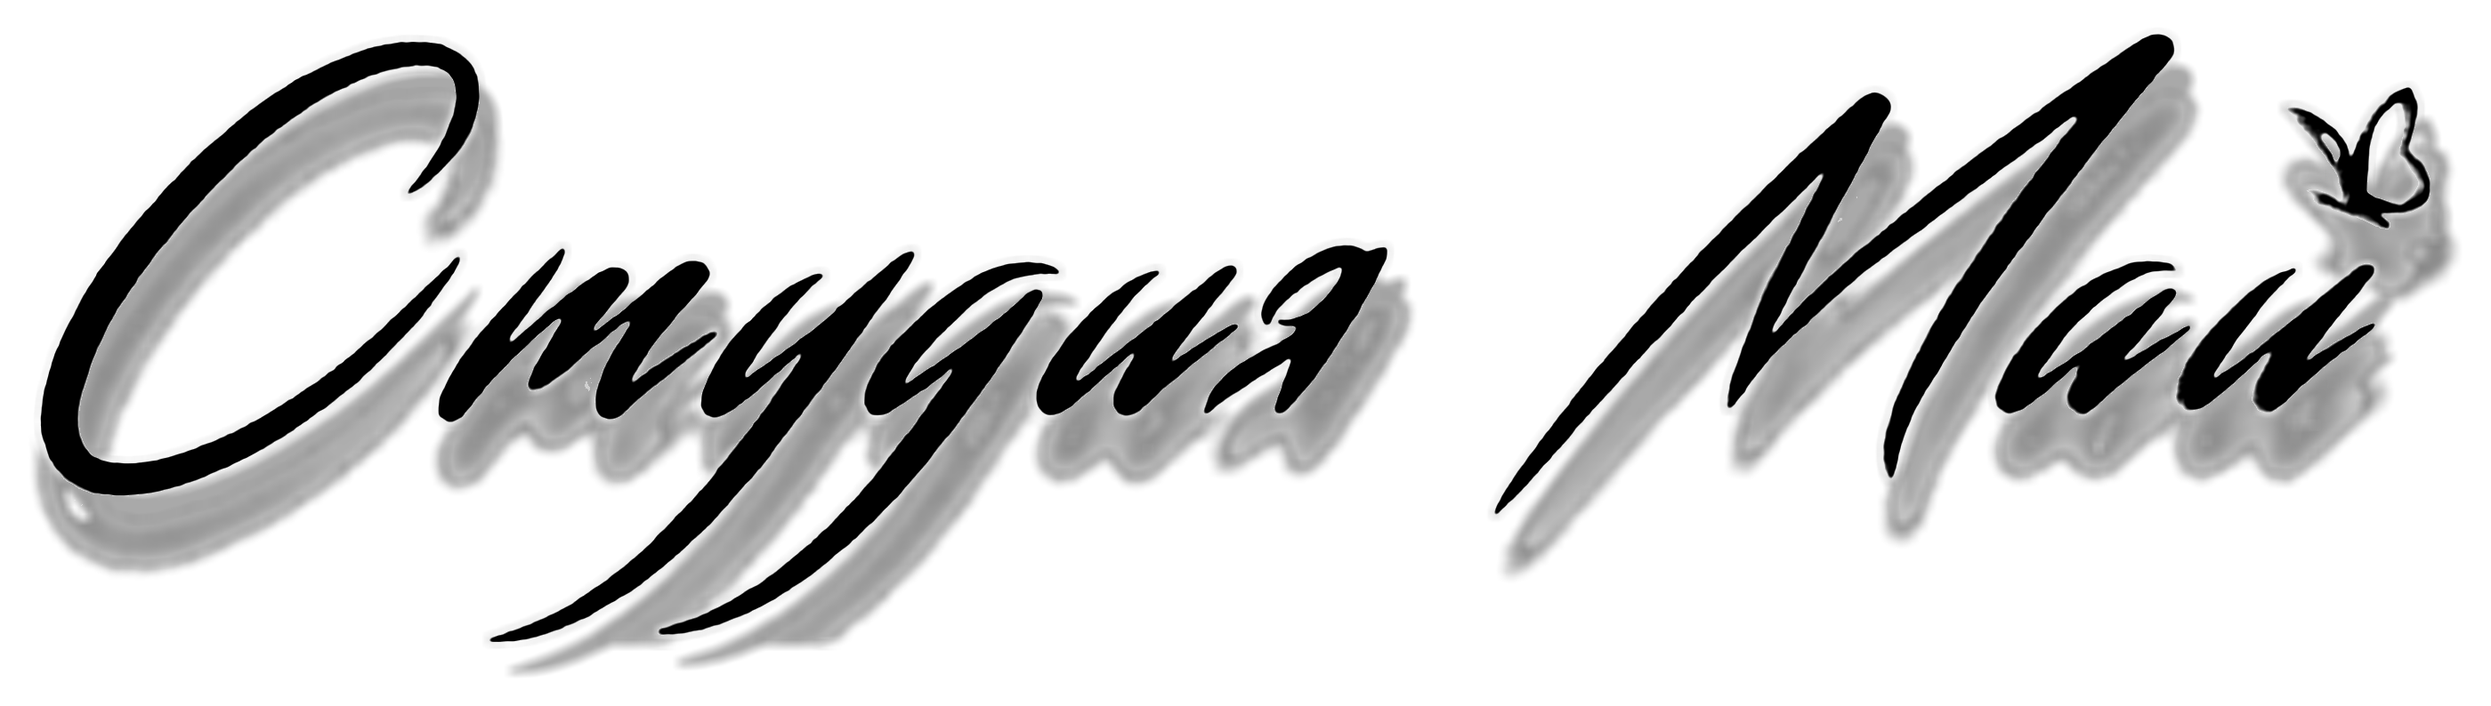
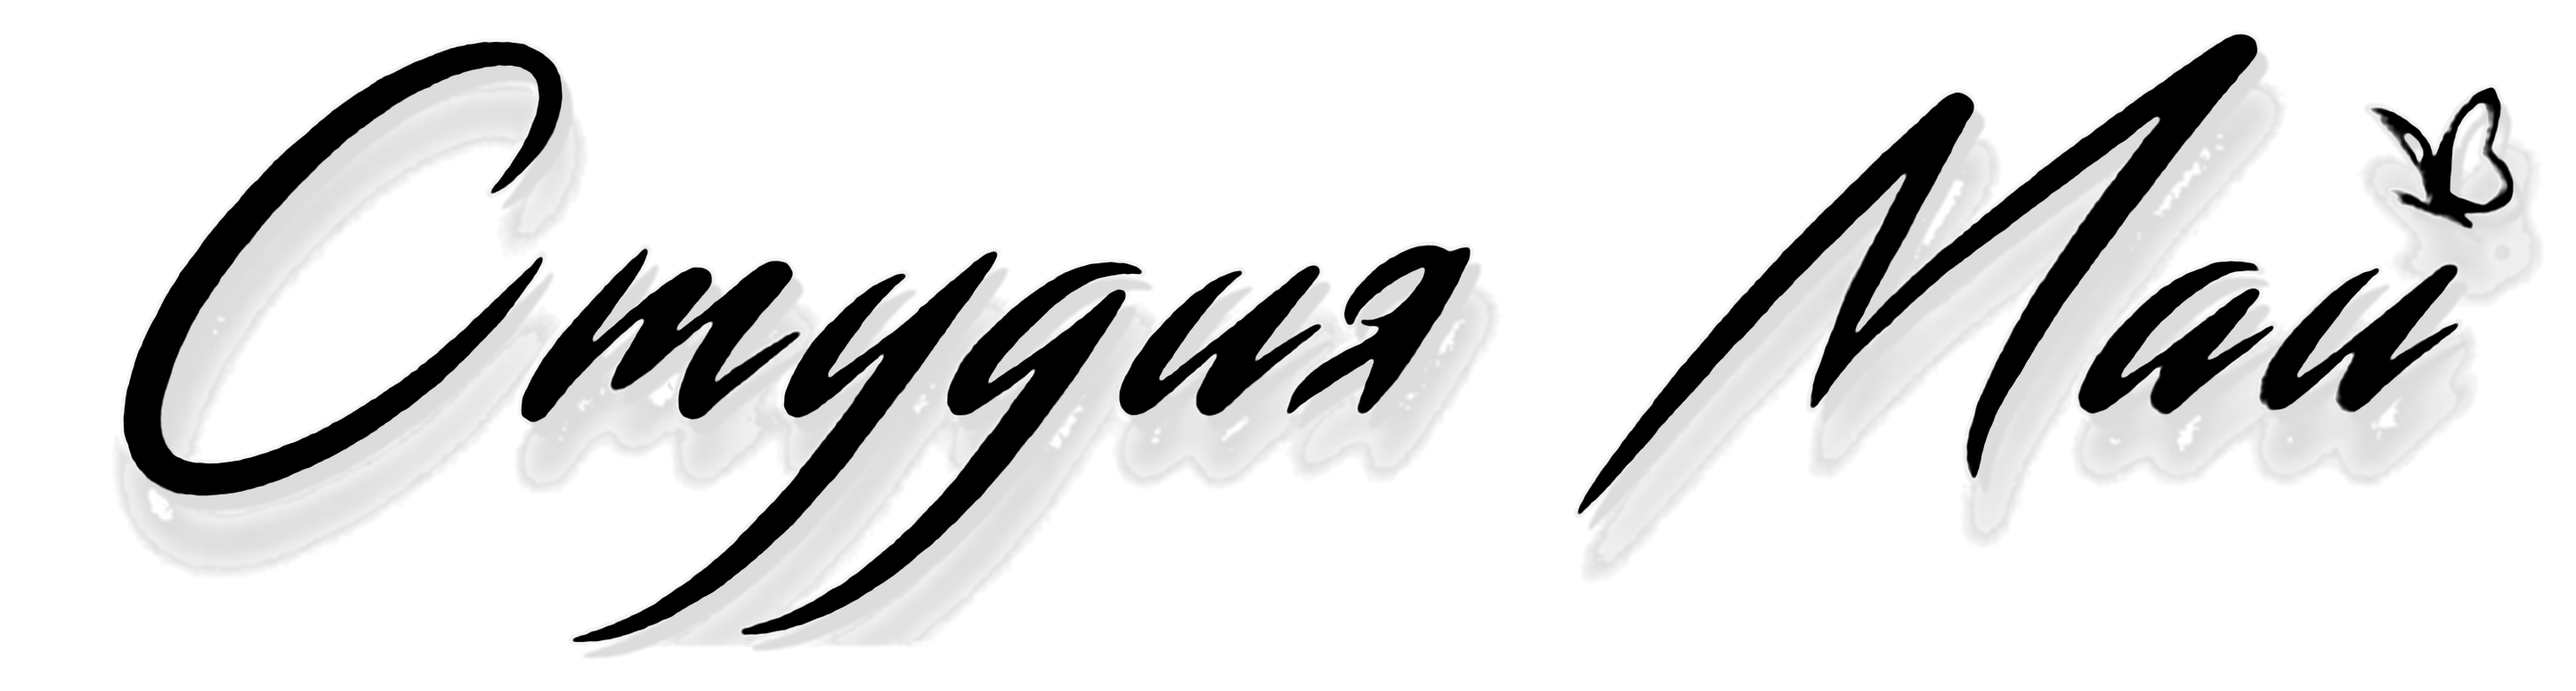
Сделать тень «Студия Май» тоньше: пересобрать PNG и убрать CSS drop-shadow.

Changed region(s): [[0.0, 0.0618, 0.5906, 0.9575], [0.5906, 0.0618, 0.9946, 0.834]]

diff --git a/style.css b/style.css
@@ -444,12 +444,9 @@ ul {
   max-width: 100%;
 }
 
-.brand-title-img--header {
-  filter: drop-shadow(0 1px 1.5px rgba(42, 42, 42, 0.07));
-}
-
+.brand-title-img--header,
 .brand-title-img--hero {
-  filter: drop-shadow(0 1.5px 2.5px rgba(42, 42, 42, 0.09));
+  filter: none;
 }
 
 .hero__site-name {
